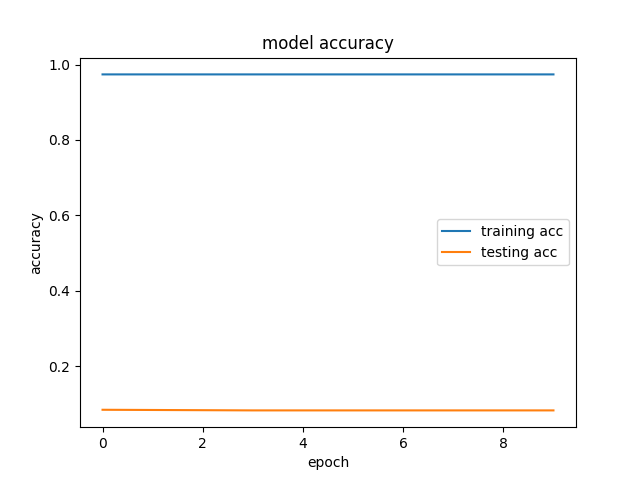
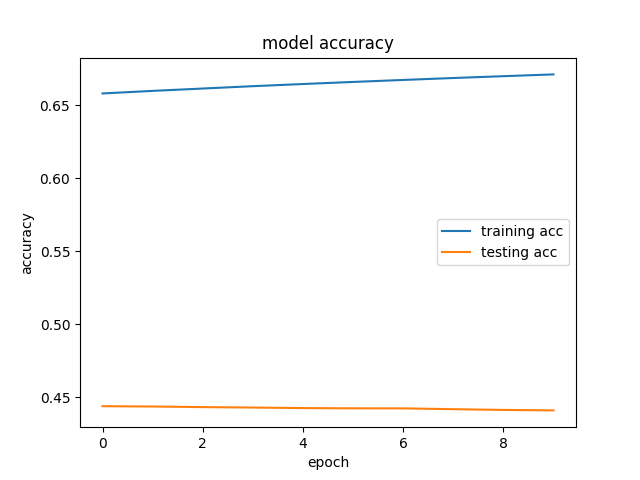
added per utterance plots

diff --git a/mshah1/mlpTest.py b/mshah1/mlpTest.py
@@ -208,10 +208,10 @@ def preTrain(model,modelName,x_train,y_train,meta,skip_layers=[],train_layer_0=F
 	              loss='categorical_crossentropy',
 	              metrics=['accuracy'])
 		print model_new.summary()
-		# model_new.fit(x_train,y_train,epochs=3,batch_size=2048)
-		model.fit_generator(gen_bracketed_data(x_train,y_train,meta['framePos_Train'],4),
-										steps_per_epoch=len(meta['framePos_Train']), epochs=3,
-										callbacks=[ModelCheckpoint('%s_CP.h5' % modelName,monitor='loss',mode='min')])
+		model_new.fit(x_train,y_train,epochs=3,batch_size=2048)
+		# model.fit_generator(gen_bracketed_data(x_train,y_train,meta['framePos_Train'],4),
+		# 								steps_per_epoch=len(meta['framePos_Train']), epochs=3,
+		# 								callbacks=[ModelCheckpoint('%s_CP.h5' % modelName,monitor='loss',mode='min')])
 		model.layers[i].set_weights(model_new.layers[-2].get_weights())
 	for l in model.layers:
 		l.trainable = True
@@ -234,15 +234,15 @@ def trainNtest(model,x_train,y_train,x_test,y_test,meta,modelName,plot_name,test
 			model = preTrain(model,modelName,x_train,y_train,meta)
 		print model.summary()
 		print 'starting fit...'
-		# history = model.fit(x_train,y_train,epochs=10,batch_size=2048,
-		# 					callbacks=[TestCallback((x_test,y_test))])
+		history = model.fit(x_train,y_train,epochs=10,batch_size=2048,
+							validation_data=(x_test,y_test))
 		# EarlyStopping(monitor='val_acc',min_delta=0.25,patience=1,mode='max')
-		history = model.fit_generator(gen_bracketed_data(x_train,y_train,meta['framePos_Train'],4),
-										steps_per_epoch=len(meta['framePos_Train']), epochs=30,
-										validation_data=gen_bracketed_data(x_test,y_test,meta['framePos_Dev'],4),
-										validation_steps = len(meta['framePos_Dev']),
-										callbacks=[ModelCheckpoint('%s_CP.h5' % modelName,mode='min'),
-													EarlyStopping(monitor='val_acc',min_delta=0.0025,patience=1,mode='max')])
+		# history = model.fit_generator(gen_bracketed_data(x_train,y_train,meta['framePos_Train'],4),
+		# 								steps_per_epoch=len(meta['framePos_Train']), epochs=30,
+		# 								validation_data=gen_bracketed_data(x_test,y_test,meta['framePos_Dev'],4),
+		# 								validation_steps = len(meta['framePos_Dev']),
+		# 								callbacks=[ModelCheckpoint('%s_CP.h5' % modelName,mode='min'),
+		# 											EarlyStopping(monitor='val_acc',min_delta=0.0025,patience=1,mode='max')])
 		print 'saving model...'
 		model.save(modelName+'.h5')
 		print(history.history.keys())
@@ -319,21 +319,21 @@ def getPreds(model,filelist,file_dir,file_ext,res_dir,res_ext,context_len=4):
 		writeSenScores(res_file_path,preds)
 
 print 'loading data...'
-meta = np.load('wsj0_phonelabels_meta.npz')
-x_train = np.load('wsj0_phonelabels_train.npy')
-y_train = np.load('wsj0_phonelabels_train_labels.npy')
+meta = np.load('wsj0_phonelabels_bracketed_meta.npz')
+x_train = np.load('wsj0_phonelabels_bracketed_train.npy')
+y_train = np.load('wsj0_phonelabels_bracketed_train_labels.npy')
 nClasses = np.max(y_train) + 1
-# print 'transforming labels...'
-# y_train = to_categorical(y_train, num_classes = nClasses)
+print 'transforming labels...'
+y_train = to_categorical(y_train, num_classes = nClasses)
 
 print 'loading test data...'
-x_test = np.load('wsj0_phonelabels_dev.npy')
-y_test = np.load('wsj0_phonelabels_dev_labels.npy')
-# print 'transforming labels...'
-# y_test = to_categorical(y_test, num_classes = nClasses)
+x_test = np.load('wsj0_phonelabels_bracketed_dev.npy')
+y_test = np.load('wsj0_phonelabels_bracketed_dev_labels.npy')
+print 'transforming labels...'
+y_test = to_categorical(y_test, num_classes = nClasses)
 
 print 'initializing model...'
-model = mlp4(x_train.shape[1]*9, nClasses,10,2048,BN=True)
+model = mlp1(x_train.shape[1], nClasses,2,2048,BN=True)
 # model = DBN_DNN(x_train, nClasses,3,2048)
 trainNtest(model,x_train,y_train,x_test,y_test,meta,'mlp4-20x2048-sig-adagrad','mlp4-20x2048-sig-adagrad',pretrain=False)
 
